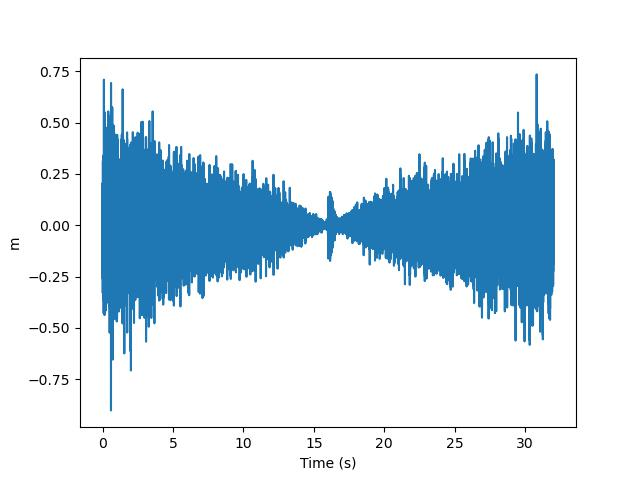
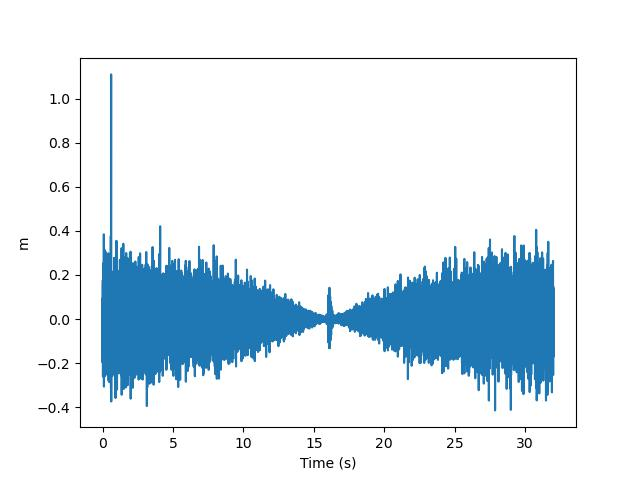
finished code for 5b

diff --git a/Assignment 6/a6q5b.py b/Assignment 6/a6q5b.py
@@ -5,44 +5,47 @@ import glob
 import json
 
 
-
-
-
-
 def smooth_vector(vec,sig):
     n=len(vec)
     x=np.arange(n)
     x[n//2:]=x[n//2:]-n
-    kernel=np.exp(-0.5*x**2/sig**2) #make a Gaussian kernel
+    kernel=np.exp(-0.5*x**2/sig**2) # make a Gaussian kernel
     kernel=kernel/kernel.sum()
     vecft=np.fft.rfft(vec)
     kernelft=np.fft.rfft(kernel)
     vec_smooth=np.fft.irfft(vecft*kernelft) #convolve the data with the kernel
     return vec_smooth
-
 def read_template(filename):
     dataFile=h5py.File(filename,'r')
     template=dataFile['template']
     tp=template[0]
     tx=template[1]
     return tp,tx
-
 def read_file(filename):
     dataFile=h5py.File(filename,'r')
     dqInfo = dataFile['quality']['simple']
     qmask=dqInfo['DQmask'][...]
+
     meta=dataFile['meta']
+    #gpsStart=meta['GPSstart'].value
     gpsStart=meta['GPSstart'][()]
+    #print meta.keys()
+    #utc=meta['UTCstart'].value
     utc=meta['UTCstart'][()]
+    #duration=meta['Duration'].value
     duration=meta['Duration'][()]
+    #strain=dataFile['strain']['Strain'].value
     strain=dataFile['strain']['Strain'][()]
     dt=(1.0*duration)/len(strain)
+
     dataFile.close()
     return strain,dt,utc
 
 
 
-def locate_peak(ename, tmp_name = 'LIGO/GW150914_4_template.hdf5'):
+def getlocation(ename):
+
+    print("Looking at event", ename)
 
     # Opening JSON file to map and getting info
     with open("LIGO/BBH_events_v3.json") as f:
@@ -51,86 +54,72 @@ def locate_peak(ename, tmp_name = 'LIGO/GW150914_4_template.hdf5'):
     events = json.loads(events)
     event = events[ename]
 
-    
+        
     tmp_name = "LIGO/" + event["fn_template"]
     fname_h = "LIGO/" + event["fn_H1"]
     fname_l = "LIGO/" + event["fn_L1"]
     fname_list = [fname_h, fname_l]
 
+    locations = []
+
     for fname in fname_list:
-        # Loading data
-        print('reading file ', fname)
-        strain, dt, utc = read_file(fname)
+        # Loading the data
+        print('Reading File:',fname)
+        strain,dt,utc=read_file(fname)
 
-        # Loading template
+        # Loading the template
+        print("Using template:", tmp_name)
         tp,tx=read_template(tmp_name)
-
-        # Creating window function
+        
+        # Generating the cosine window
         x=np.linspace(-np.pi/2,np.pi/2,len(strain))
-        win=np.cos(x)**1
+        win=np.cos(x)
 
-
-        # FT of data
+        # Taking the fft of the data
         noise_ft=np.fft.fft(win*strain)
 
-        # Smoothing our data to create weights
-        noise_smooth=smooth_vector(np.abs(noise_ft)**2, 10)
-        noise_smooth=noise_smooth[:len(noise_ft)//2+1] #will give us same length
+        
+
+        # Creating a smooth version of the spectrum
+        noise_smooth=smooth_vector(np.abs(noise_ft)**2, 20)
+
+        # Whitened data
+        w_data = noise_ft/noise_smooth
+
+        # Generating the axis
         tobs=dt*len(strain)
         dnu=1/tobs
         nu=np.arange(len(noise_smooth))*dnu
         nu[0]=0.5*nu[1]
-        Ninv=1/noise_smooth     # Creating weights
-        Ninv[nu>1500]=0
-        Ninv[nu<20]=0
 
-        # Whitening the data
-        whitening_range = np.arange(1100, 5000)
-        vs_noise = smooth_vector(np.abs(noise_ft)**2, 300)[whitening_range]
-        w_noise = noise_ft[whitening_range]/vs_noise
+        w_data[nu < 10] = 0
+        w_data[nu > 800] = 0
         
 
+        # Plotting
+        plt.loglog(nu, np.abs(noise_ft)**2)
+        plt.loglog(nu, noise_smooth)
+        plt.loglog(nu, np.abs(w_data)**2)
+        plt.show()
 
-        # FFT of template
-        template_ft=np.fft.rfft(tp*win)
-        template_filt=template_ft*Ninv
+        # Match filtering
+        template_ft=np.fft.fft(tp*win)
+        rhs=np.fft.irfft(w_data*np.conj(template_ft))
+        times = np.arange(len(rhs))*dt/2
 
-        # Matched filtering
-        data_ft=np.fft.rfft(strain*win)
+        # Plotting
+        plt.plot(times, rhs)
+        plt.xlabel("Time (s)")
+        plt.ylabel("m")
+        plt.savefig("figs/a6q5_example_location.jpg")
+        plt.show()
 
-        filter = np.arange(len(data_ft))
-        filter[filter < 1000] = 0
-        filter[filter > 10000] = 0
-        filter[filter > 0] = 1
-        filter = filter*0 + 1
-    
+        locations.append(times[np.argmax(np.abs(rhs))])
+    return locations
 
+event_list = ['GW150914', "LVT151012", "GW151226", "GW170104"]
 
-        #rhs=np.fft.irfft(data_ft*np.conj(template_filt)*filter)
-        rhs=np.fft.irfft(data_ft*np.conj(template_filt))
-
-        peak_location = np.argmax(np.abs(rhs))
-
-    return peak_location, dt, len(rhs)
-
-
-# Pair events list:
-events = [
-    ['LIGO/H-H1_LOSC_4_V1-1167559920-32.hdf5', 'LIGO/L-L1_LOSC_4_V1-1167559920-32.hdf5'],
-    ['LIGO/H-H1_LOSC_4_V2-1126259446-32.hdf5', 'LIGO/L-L1_LOSC_4_V2-1126259446-32.hdf5'],
-    ['LIGO/H-H1_LOSC_4_V2-1128678884-32.hdf5', 'LIGO/L-L1_LOSC_4_V2-1128678884-32.hdf5'],
-    ['LIGO/H-H1_LOSC_4_V2-1135136334-32.hdf5', 'LIGO/L-L1_LOSC_4_V2-1135136334-32.hdf5']
-]
-
-
-for i in events:
-    h, dt, length = locate_peak(i[0])
-    l, dt, length = locate_peak(i[1])
-
-    diff1 = np.abs(h-l)
-    diff2 = np.abs(np.abs(d))
-
-    print("Hanford:", h)
-    print("Livingston:", l)
-    print("Time difference", (h-l)*dt)
-
+for event in event_list:    
+    times = getlocation(event)
+    print("Time of events at both detectors:", times)
+    print("Difference in time", np.abs(times[1] - times[0]))

diff --git a/Assignment 6/test.py b/Assignment 6/test.py
@@ -9,7 +9,7 @@ def smooth_vector(vec,sig):
     n=len(vec)
     x=np.arange(n)
     x[n//2:]=x[n//2:]-n
-    kernel=np.exp(-0.5*x**2/sig**2) #make a Gaussian kernel
+    kernel=np.exp(-0.5*x**2/sig**2) # make a Gaussian kernel
     kernel=kernel/kernel.sum()
     vecft=np.fft.rfft(vec)
     kernelft=np.fft.rfft(kernel)
@@ -64,14 +64,13 @@ def getlocation(ename):
 
     for fname in fname_list:
         # Loading the data
-        print('reading file ',fname)
+        print('Reading File:',fname)
         strain,dt,utc=read_file(fname)
 
         # Loading the template
-        template_name='LIGO/LVT151012_4_template.hdf5'
-        tp,tx=read_template(template_name)
+        print("Using template:", tmp_name)
+        tp,tx=read_template(tmp_name)
         
-
         # Generating the cosine window
         x=np.linspace(-np.pi/2,np.pi/2,len(strain))
         win=np.cos(x)
@@ -82,7 +81,7 @@ def getlocation(ename):
         
 
         # Creating a smooth version of the spectrum
-        noise_smooth=smooth_vector(np.abs(noise_ft)**2,20)
+        noise_smooth=smooth_vector(np.abs(noise_ft)**2, 20)
 
         # Whitened data
         w_data = noise_ft/noise_smooth
@@ -92,13 +91,16 @@ def getlocation(ename):
         dnu=1/tobs
         nu=np.arange(len(noise_smooth))*dnu
         nu[0]=0.5*nu[1]
+
+        w_data[nu < 10] = 0
+        w_data[nu > 800] = 0
         
 
         # Plotting
-        #plt.loglog(nu, np.abs(noise_ft)**2)
-        #plt.loglog(nu, noise_smooth)
-        #plt.loglog(nu, np.abs(w_data)**2)
-        #plt.show()
+        plt.loglog(nu, np.abs(noise_ft)**2)
+        plt.loglog(nu, noise_smooth)
+        plt.loglog(nu, np.abs(w_data)**2)
+        plt.show()
 
         # Match filtering
         template_ft=np.fft.fft(tp*win)
@@ -120,7 +122,9 @@ def getlocation(ename):
 event_list = ['GW150914', "LVT151012", "GW151226", "GW170104"]
 
 for event in event_list:    
-    print(getlocation(event))
+    times = getlocation(event)
+    print("Time of events at both detectors:", times)
+    print("Difference in time", np.abs(times[1] - times[0]))
 
 
 assert(0==1)
